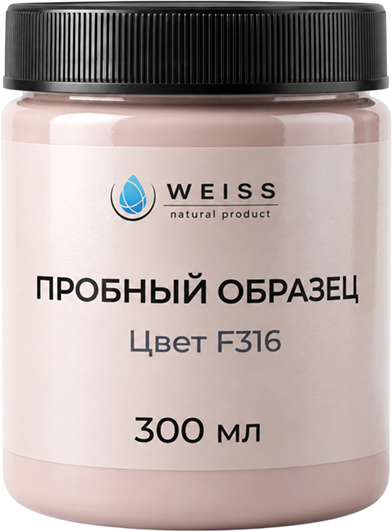
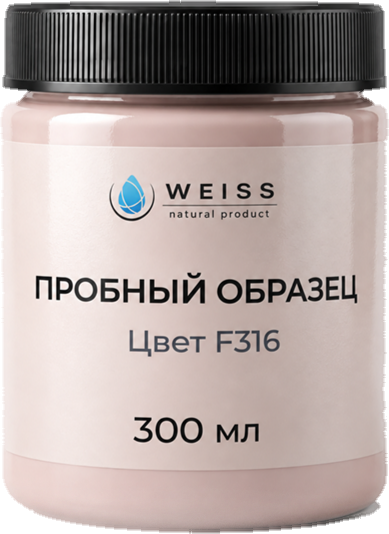
Пробник: новое фото банки и вырезание с ровным краем

diff --git a/02_верстка/pages/modal-sampler.html b/02_верстка/pages/modal-sampler.html
@@ -127,7 +127,7 @@
 
       <div class="sampler-photo">
         <div class="sampler-photo__can">
-          <img src="../assets/img/sampler-can.png" width="392" height="531"
+          <img src="../assets/img/sampler-can.png" width="389" height="534"
                alt="Баночка пробного образца краски 300 мл в цвете F316" loading="lazy">
         </div>
       </div>

diff --git a/02_верстка/css/sampler.css b/02_верстка/css/sampler.css
@@ -111,11 +111,11 @@
   border-radius: 50%;
   background: radial-gradient(
     ellipse at 50% 50%,
-    rgba(31, 41, 55, 0.32),
-    rgba(31, 41, 55, 0.12) 50%,
+    rgba(31, 41, 55, 0.42),
+    rgba(31, 41, 55, 0.16) 50%,
     rgba(31, 41, 55, 0) 82%
   );
-  filter: blur(10px);
+  filter: blur(8px);
 }
 
 .sampler-photo__can img {

diff --git a/03_wp/wp-content/themes/weiss-color/css/sampler.css b/03_wp/wp-content/themes/weiss-color/css/sampler.css
@@ -111,11 +111,11 @@
   border-radius: 50%;
   background: radial-gradient(
     ellipse at 50% 50%,
-    rgba(31, 41, 55, 0.32),
-    rgba(31, 41, 55, 0.12) 50%,
+    rgba(31, 41, 55, 0.42),
+    rgba(31, 41, 55, 0.16) 50%,
     rgba(31, 41, 55, 0) 82%
   );
-  filter: blur(10px);
+  filter: blur(8px);
 }
 
 .sampler-photo__can img {

diff --git a/03_wp/wp-content/themes/weiss-color/page-sampler.php b/03_wp/wp-content/themes/weiss-color/page-sampler.php
@@ -68,7 +68,7 @@ $weiss_back = $weiss_color
 
       <div class="sampler-photo">
         <div class="sampler-photo__can">
-          <img src="<?php echo esc_url( WEISS_URI ); ?>/assets/img/sampler-can.png" width="392" height="531"
+          <img src="<?php echo esc_url( WEISS_URI ); ?>/assets/img/sampler-can.png" width="389" height="534"
                alt="Баночка пробного образца краски 300 мл в цвете <?php echo esc_attr( $weiss_color_label ); ?>" loading="lazy">
         </div>
       </div>
